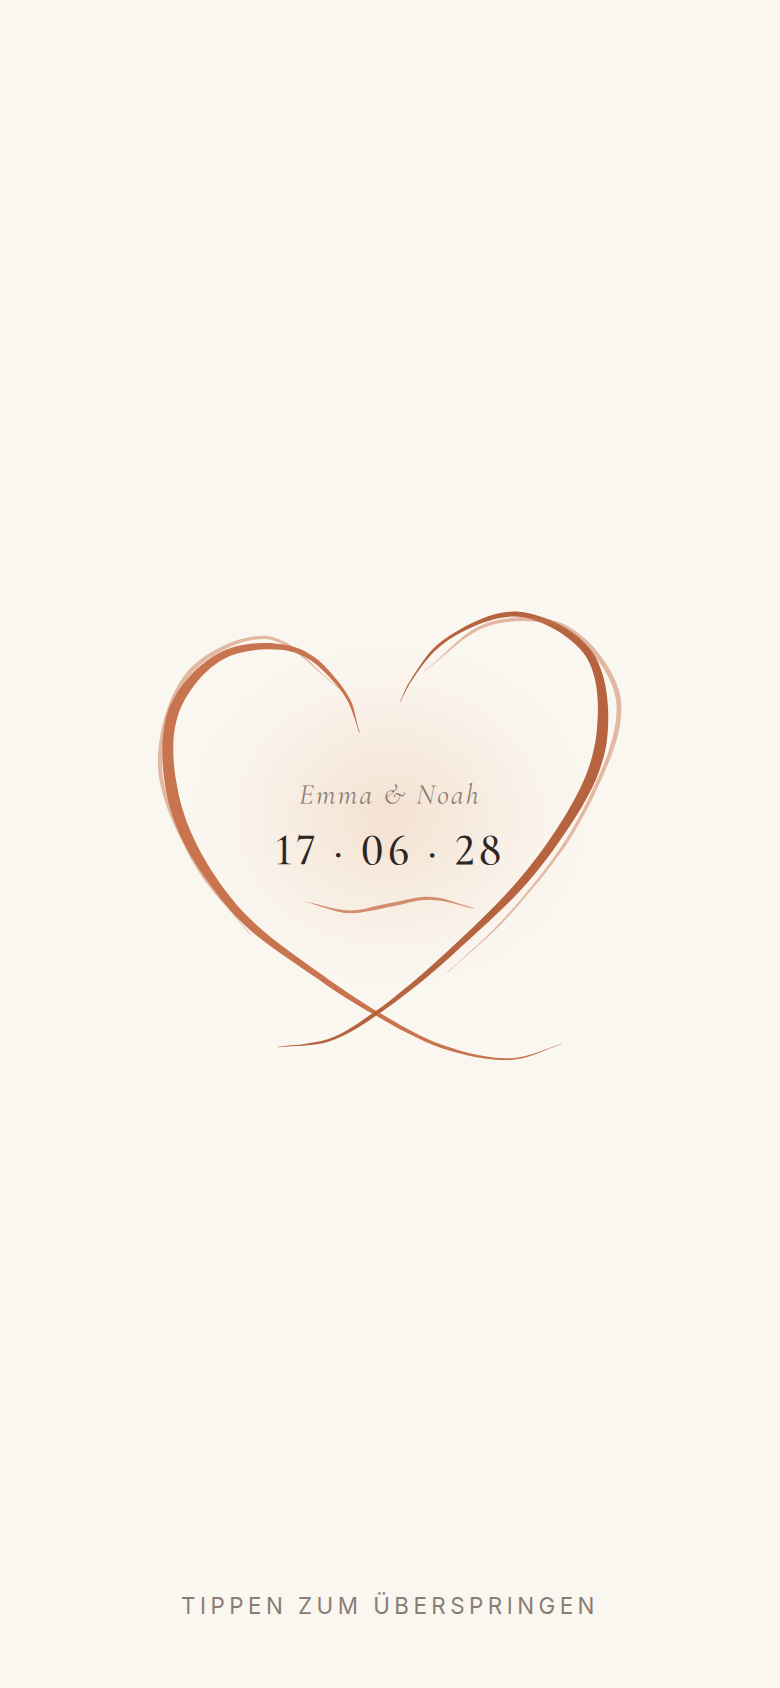
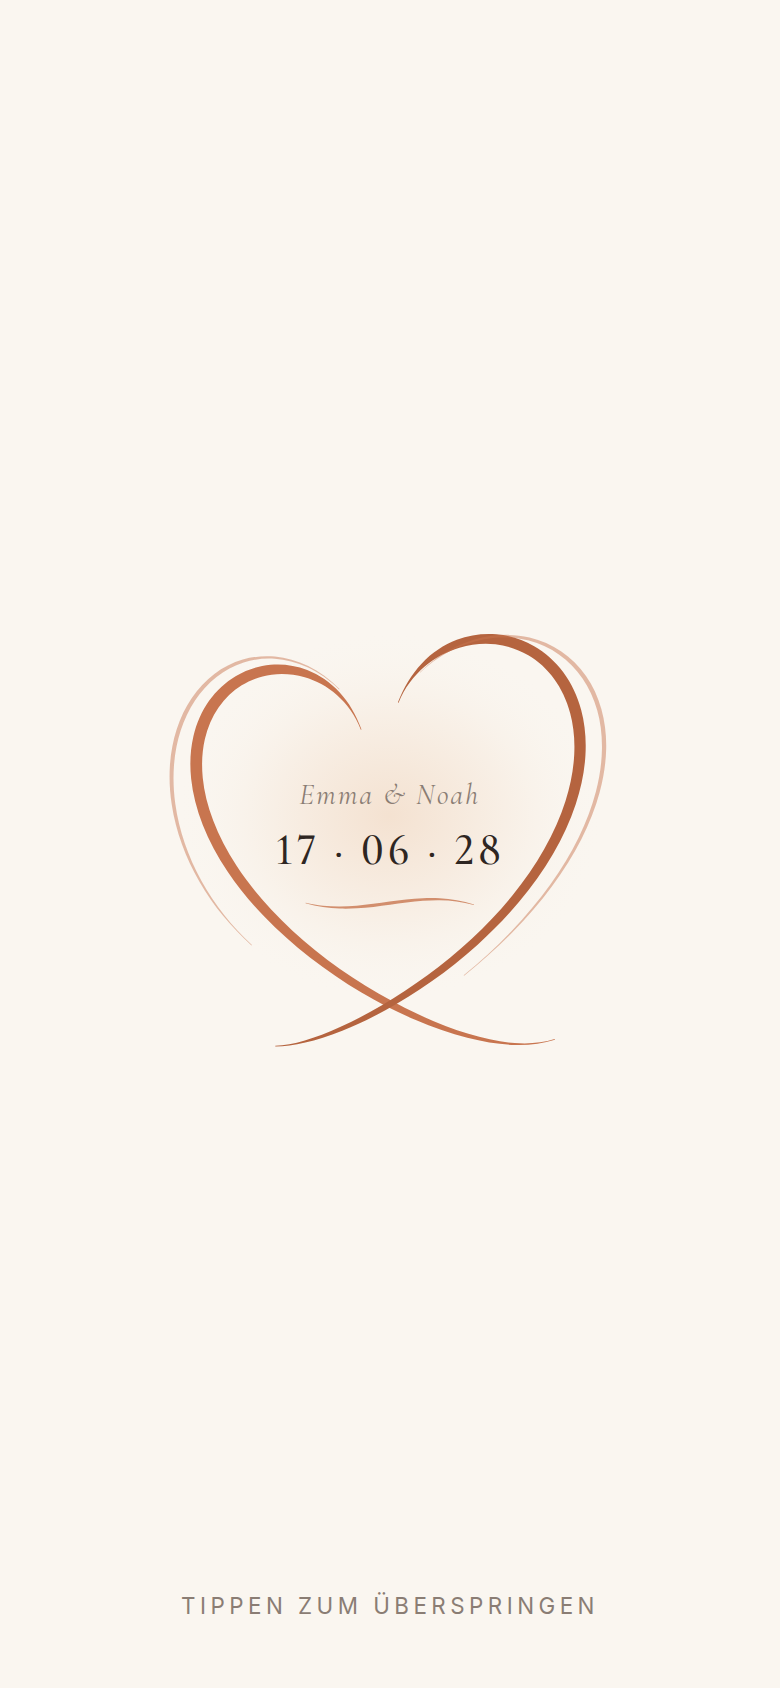
fix: smooth calligraphic heart Bezier curves and prevent mask rotation jitter

Changed region(s): [[0.1846, 0.3389, 0.8, 0.6161], [0.6154, 0.6161, 0.6462, 0.6469]]

diff --git a/src/components/heartPaths.ts b/src/components/heartPaths.ts
@@ -1,4 +1,4 @@
-// Hand-lettered calligraphic heart strokes (centerline for SVG mask + variable-width nib ribbon)
+// Hand-lettered calligraphic heart strokes (C-infinity smooth Bernstein curves + variable-width nib ribbons)
 export interface CalligraphicStroke {
   id: string
   center: string
@@ -11,48 +11,48 @@ export interface CalligraphicStroke {
 
 export const HEART_STROKES: readonly CalligraphicStroke[] = [
   {
-    id: 'left-lobe',
-    center: 'M 172 104 C 169.3 96.7, 168.7 89.1, 164 82 C 158 72.9, 147.4 60.2, 136 56 C 123.7 51.5, 104.3 52.1, 92 58 C 79.5 64, 67 78, 62 92 C 56.3 107.9, 58.6 131.3, 64 150 C 69.8 170.1, 83.8 191.5, 98 208 C 111.9 224.1, 132.7 237, 148 248 C 160.2 256.8, 170 263.1, 182 270 C 194.6 277.2, 208.3 285.5, 222 290 C 235 294.3, 249.7 297.7, 262 297 C 272.8 296.4, 282 291, 292 288',
-    ribbon: 'M 172.2 103.9 C 171.6 102.1, 171.1 100.3, 170.6 98.4 C 170.1 96.5, 169.8 94.6, 169.3 92.8 C 168.8 90.9, 168.4 88.9, 167.6 87.1 C 166.9 85.2, 166 83.4, 164.8 81.5 C 163.4 79.1, 161.4 76.5, 159.5 74.1 C 157.5 71.5, 155.3 68.7, 152.9 66.3 C 150.5 63.8, 148 61.3, 145.2 59.4 C 142.5 57.4, 139.7 55.8, 136.5 54.5 C 133.2 53.3, 129.6 52.5, 125.9 51.9 C 122 51.4, 117.9 51.1, 113.9 51.2 C 109.9 51.3, 105.7 51.7, 101.9 52.5 C 98.1 53.3, 94.5 54.4, 91 56 C 87.6 57.6, 84.4 59.7, 81.3 62 C 78.1 64.4, 75 67.2, 72.2 70.2 C 69.4 73.2, 66.7 76.5, 64.5 80 C 62.3 83.5, 60.4 87, 59 90.9 C 57.5 95.2, 56.6 100, 56 104.8 C 55.4 109.7, 55.3 115, 55.5 120.1 C 55.7 125.3, 56.4 130.7, 57.2 135.9 C 58.1 141, 59.1 145.9, 60.7 151 C 62.3 156.2, 64.4 161.5, 66.8 166.6 C 69.2 171.8, 72.2 176.9, 75.3 181.9 C 78.4 186.9, 81.9 191.7, 85.4 196.4 C 88.8 201, 92.3 205.5, 96.1 209.6 C 99.9 213.8, 103.8 217.6, 107.9 221.3 C 112.1 224.9, 116.7 228.3, 121.2 231.6 C 125.6 234.8, 130.2 237.9, 134.6 240.9 C 138.8 243.8, 143.2 246.8, 147 249.4 C 150.2 251.6, 152.9 253.6, 155.8 255.6 C 158.6 257.5, 161.4 259.2, 164.2 261 C 167 262.7, 169.8 264.4, 172.6 266.1 C 175.5 267.8, 178.4 269.4, 181.4 271.1 C 184.5 272.9, 187.8 274.8, 191 276.6 C 194.3 278.4, 197.7 280.3, 201.1 282 C 204.5 283.7, 207.9 285.4, 211.4 286.9 C 214.8 288.3, 218.3 289.7, 221.7 290.9 C 225.1 292, 228.4 292.9, 231.8 293.8 C 235.2 294.7, 238.7 295.5, 242.1 296.1 C 245.5 296.7, 249 297.1, 252.3 297.4 C 255.6 297.6, 259 297.7, 262 297.5 C 264.8 297.3, 267.4 296.8, 269.9 296.2 C 272.5 295.5, 275 294.6, 277.4 293.7 C 279.9 292.8, 282.2 291.7, 284.7 290.8 C 287.1 289.8, 289.6 289, 292 288.1 L 292 287.9 C 289.5 288.7, 287 289.5, 284.5 290.4 C 282.1 291.3, 279.7 292.3, 277.2 293.1 C 274.7 293.9, 272.3 294.7, 269.7 295.3 C 267.2 295.9, 264.7 296.3, 262 296.5 C 259 296.7, 255.7 296.5, 252.4 296.3 C 249.1 296, 245.7 295.4, 242.4 294.7 C 239 294, 235.6 293.1, 232.2 292.2 C 228.9 291.3, 225.6 290.3, 222.3 289.1 C 218.9 288, 215.5 286.6, 212.1 285.1 C 208.8 283.6, 205.4 281.8, 202.1 280 C 198.8 278.3, 195.5 276.3, 192.3 274.5 C 189 272.6, 185.8 270.7, 182.6 268.9 C 179.7 267.1, 176.9 265.5, 174.1 263.7 C 171.3 262, 168.6 260.3, 165.9 258.4 C 163.2 256.6, 160.5 254.7, 157.7 252.8 C 154.9 250.8, 152.2 248.8, 149 246.6 C 145.3 243.9, 140.9 240.8, 136.7 237.8 C 132.5 234.7, 128 231.5, 123.7 228.2 C 119.4 224.8, 115.1 221.4, 111.1 217.7 C 107.2 214.1, 103.4 210.4, 99.9 206.4 C 96.3 202.3, 92.9 197.8, 89.6 193.3 C 86.4 188.6, 83.2 183.8, 80.4 178.8 C 77.6 173.9, 75 168.9, 72.8 163.8 C 70.6 159, 68.8 154, 67.3 149 C 65.9 144.3, 64.8 139.6, 64 134.7 C 63.1 129.8, 62.4 124.7, 62.1 119.8 C 61.9 115, 61.8 110, 62.3 105.5 C 62.8 101.2, 63.7 96.9, 65 93.1 C 66.2 89.5, 67.8 86.4, 69.6 83.2 C 71.5 79.9, 73.8 76.7, 76.2 73.8 C 78.7 70.9, 81.4 68.1, 84.2 65.7 C 87 63.5, 89.9 61.5, 93 60 C 96.1 58.5, 99.4 57.5, 102.8 56.7 C 106.4 55.8, 110.3 55.2, 114.1 55 C 117.9 54.8, 121.8 54.8, 125.5 55.2 C 128.9 55.6, 132.4 56.3, 135.5 57.5 C 138.4 58.5, 140.9 60, 143.5 61.7 C 146.2 63.5, 148.7 65.8, 151.1 68.1 C 153.5 70.3, 155.8 72.9, 157.9 75.4 C 159.8 77.7, 161.8 80.3, 163.2 82.5 C 164.4 84.4, 165.3 85.9, 166.1 87.7 C 166.9 89.5, 167.6 91.3, 168.2 93.1 C 168.9 94.9, 169.4 96.7, 170 98.5 C 170.6 100.4, 171.2 102.2, 171.8 104.1 Z',
-    maskWidth: 10,
-    delay: 0.05,
-    duration: 1.15,
-    variant: 'primary',
+    "id": "left-lobe",
+    "center": "M 173 102 C 169.83 93.33, 165.03 86.14, 159.34 80.57 C 153.64 75, 147.05 71.06, 140.2 68.72 C 133.36 66.39, 126.26 65.66, 119.46 66.41 C 112.65 67.16, 106.14 69.39, 100.35 72.88 C 94.56 76.37, 89.49 81.12, 85.48 86.86 C 81.46 92.61, 78.49 99.34, 76.77 106.77 C 75.06 114.21, 74.59 122.34, 75.46 130.87 C 76.33 139.4, 78.54 148.33, 82.05 157.38 C 85.57 166.42, 90.39 175.58, 96.37 184.61 C 102.35 193.63, 109.5 202.51, 117.57 211.02 C 125.64 219.53, 134.63 227.67, 144.21 235.25 C 153.79 242.83, 163.97 249.85, 174.37 256.14 C 184.76 262.43, 195.38 267.99, 205.83 272.66 C 216.28 277.33, 226.57 281.11, 236.37 283.85 C 246.16 286.58, 255.47 288.27, 264.09 288.71 C 272.72 289.14, 280.67 288.33, 288 286",
+    "ribbon": "M 173.21 101.92 C 170.03 93.23, 165.65 85.75, 160.12 79.77 C 154.6 73.78, 148 69.3, 140.95 66.54 C 133.89 63.78, 126.38 62.77, 119.13 63.45 C 111.88 64.13, 104.89 66.42, 98.66 70.08 C 92.43 73.75, 86.97 78.79, 82.66 84.89 C 78.35 91, 75.18 98.15, 73.36 105.99 C 71.55 113.83, 71.08 122.35, 72.01 131.22 C 72.94 140.09, 75.27 149.31, 78.93 158.59 C 82.59 167.86, 87.58 177.2, 93.74 186.35 C 99.89 195.5, 107.22 204.46, 115.45 213.02 C 123.69 221.58, 132.84 229.74, 142.58 237.32 C 152.31 244.89, 162.63 251.88, 173.17 258.12 C 183.7 264.37, 194.47 269.82, 205.07 274.35 C 215.68 278.88, 226.11 282.48, 236.04 285.02 C 245.96 287.56, 255.37 289.04, 264.07 289.28 C 272.76 289.51, 280.7 288.55, 288.07 286.21 L 287.93 285.79 C 280.63 288.11, 272.69 288.77, 264.12 288.14 C 255.56 287.5, 246.36 285.6, 236.69 282.67 C 227.02 279.74, 216.89 275.78, 206.59 270.96 C 196.29 266.15, 185.83 260.49, 175.57 254.16 C 165.3 247.83, 155.27 240.78, 145.84 233.19 C 136.41 225.6, 127.59 217.47, 119.69 209.01 C 111.79 200.55, 104.81 191.75, 99 182.86 C 93.19 173.97, 88.54 164.98, 85.17 156.16 C 81.8 147.35, 79.71 138.71, 78.9 130.52 C 78.1 122.33, 78.56 114.59, 80.18 107.56 C 81.8 100.54, 84.58 94.22, 88.3 88.84 C 92.02 83.45, 96.68 79, 102.04 75.68 C 107.39 72.37, 113.42 70.19, 119.78 69.37 C 126.14 68.55, 132.83 69, 139.46 70.9 C 146.09 72.81, 152.68 76.23, 158.55 81.38 C 164.42 86.53, 169.63 93.44, 172.79 102.08 Z",
+    "maskWidth": 10,
+    "delay": 0.05,
+    "duration": 1.15,
+    "variant": "primary"
   },
   {
-    id: 'right-lobe',
-    center: 'M 196 86 C 198 82, 199.1 78.5, 202 74 C 206.5 67.1, 212.9 56.4, 222 50 C 233.1 42.2, 251.8 32.8, 266 34 C 280.5 35.2, 299.8 45.5, 308 58 C 316.8 71.5, 317.6 95.3, 314 114 C 309.9 135.2, 294.3 158.3, 280 178 C 265.2 198.4, 243.5 217.8, 226 234 C 211 247.8, 195.4 260.8, 182 270 C 171.9 276.9, 163.8 282.7, 154 286 C 144.5 289.2, 134 288.7, 124 290',
-    ribbon: 'M 196.1 86.1 C 196.6 85.1, 197.1 84.1, 197.5 83.1 C 198 82.2, 198.4 81.2, 198.9 80.3 C 199.4 79.3, 199.9 78.4, 200.4 77.4 C 201 76.3, 201.6 75.4, 202.3 74.2 C 203.4 72.6, 204.8 70.4, 206.1 68.5 C 207.6 66.5, 209.1 64.3, 210.8 62.2 C 212.5 60.1, 214.3 58, 216.3 56 C 218.2 54.1, 220.1 52.5, 222.5 50.7 C 225.3 48.7, 228.7 46.7, 232 44.9 C 235.6 43, 239.4 41.2, 243.3 39.7 C 247.1 38.3, 251.1 37, 255 36.3 C 258.6 35.6, 262.2 35.2, 265.9 35.5 C 269.6 35.8, 273.3 36.8, 277 38.1 C 280.8 39.4, 284.8 41.3, 288.4 43.5 C 292 45.6, 295.6 48.2, 298.6 50.9 C 301.4 53.5, 304 56.1, 306 59.3 C 308.1 62.6, 309.6 66.5, 310.7 70.5 C 311.9 74.8, 312.5 79.6, 312.8 84.3 C 313.1 89.1, 313 94.2, 312.6 99.1 C 312.3 103.9, 311.8 108.5, 310.7 113.4 C 309.6 118.5, 308 123.8, 306 129 C 303.9 134.4, 301.1 139.8, 298.2 145.1 C 295.3 150.5, 291.9 155.9, 288.5 161.2 C 285.1 166.4, 281.6 171.5, 277.9 176.5 C 274.1 181.6, 270.1 186.6, 265.9 191.5 C 261.7 196.4, 257.1 201.3, 252.5 206.1 C 247.9 210.8, 243.1 215.4, 238.5 219.9 C 233.9 224.3, 229.2 228.7, 224.8 232.7 C 220.9 236.3, 217.3 239.6, 213.6 242.9 C 209.9 246.2, 206.2 249.5, 202.5 252.6 C 198.8 255.6, 195.2 258.6, 191.6 261.4 C 188.2 264.1, 184.5 266.8, 181.3 269 C 178.7 270.9, 176.5 272.4, 174.1 274 C 171.9 275.6, 169.7 277.1, 167.4 278.5 C 165.2 279.9, 163 281.2, 160.8 282.3 C 158.5 283.5, 156.1 284.5, 153.8 285.3 C 151.4 286.1, 149 286.7, 146.6 287.1 C 144.1 287.6, 141.6 287.9, 139.1 288.3 C 136.6 288.6, 134.1 288.8, 131.5 289 C 129 289.3, 126.5 289.6, 124 289.9 L 124 290.1 C 126.5 289.9, 129.1 289.7, 131.6 289.5 C 134.1 289.3, 136.7 289.3, 139.2 289.2 C 141.8 289, 144.3 288.9, 146.8 288.4 C 149.3 288, 151.8 287.5, 154.2 286.7 C 156.7 285.9, 159.1 284.9, 161.5 283.8 C 163.8 282.7, 166.1 281.5, 168.4 280.2 C 170.8 278.9, 173.1 277.4, 175.4 275.9 C 177.8 274.3, 180 272.8, 182.7 271 C 185.9 268.8, 189.7 266.1, 193.2 263.5 C 196.9 260.7, 200.6 257.8, 204.3 254.9 C 208.1 251.8, 212 248.7, 215.8 245.4 C 219.6 242.1, 223.2 238.9, 227.2 235.3 C 231.6 231.3, 236.4 227, 241 222.7 C 245.8 218.3, 250.8 213.8, 255.6 209.1 C 260.3 204.5, 265.2 199.7, 269.6 194.7 C 274 189.8, 278.2 184.7, 282.1 179.5 C 286 174.5, 289.5 169.4, 293 164.2 C 296.6 158.9, 300.2 153.5, 303.4 148.1 C 306.5 142.6, 309.6 137.1, 312 131.4 C 314.2 125.9, 316.1 120.2, 317.3 114.6 C 318.4 109.5, 318.8 104.5, 319 99.4 C 319.2 94.3, 319.1 88.9, 318.5 83.8 C 318 78.8, 317.1 73.7, 315.6 69.1 C 314.2 64.7, 312.4 60.3, 310 56.7 C 307.7 53.2, 304.7 50.2, 301.5 47.4 C 298.2 44.6, 294.2 42.2, 290.3 40.1 C 286.4 38, 282.2 36.2, 278 35 C 274.1 33.7, 270.1 32.7, 266.1 32.5 C 262.2 32.3, 258.3 32.7, 254.4 33.5 C 250.4 34.3, 246.3 35.9, 242.4 37.5 C 238.5 39.1, 234.6 41.2, 231.1 43.2 C 227.7 45.1, 224.3 47.2, 221.5 49.3 C 219.1 51.1, 217.1 52.9, 215.1 54.9 C 213.1 56.9, 211.4 59.2, 209.8 61.4 C 208.2 63.6, 206.7 65.9, 205.3 68 C 204 70, 202.7 72.1, 201.7 73.8 C 200.9 75, 200.3 76, 199.8 77 C 199.3 78.1, 198.8 79.1, 198.4 80.1 C 198 81, 197.6 82, 197.2 83 C 196.8 84, 196.3 85, 195.9 85.9 Z',
-    maskWidth: 10,
-    delay: 0.45,
-    duration: 1.2,
-    variant: 'primaryDeep',
+    "id": "right-lobe",
+    "center": "M 195 86 C 198.5 77, 203.71 69.47, 209.87 63.6 C 216.04 57.74, 223.16 53.53, 230.57 51 C 237.97 48.47, 245.66 47.63, 253.05 48.36 C 260.44 49.09, 267.54 51.4, 273.88 55.07 C 280.23 58.74, 285.82 63.77, 290.32 69.89 C 294.83 76.01, 298.25 83.21, 300.38 91.17 C 302.52 99.12, 303.37 107.84, 302.87 116.99 C 302.37 126.13, 300.53 135.7, 297.39 145.38 C 294.26 155.05, 289.85 164.83, 284.34 174.42 C 278.83 184.02, 272.22 193.42, 264.81 202.41 C 257.39 211.39, 249.18 219.94, 240.52 227.87 C 231.86 235.81, 222.76 243.13, 213.62 249.7 C 204.49 256.28, 195.31 262.1, 186.48 267.11 C 177.64 272.12, 169.16 276.31, 161.29 279.66 C 153.42 283.01, 146.19 285.52, 139.66 287.23 C 133.14 288.93, 127.33 289.83, 122 290",
+    "ribbon": "M 195.21 86.08 C 198.7 77.11, 204.38 69.92, 210.73 64.5 C 217.08 59.09, 224.18 55.43, 231.36 53.31 C 238.53 51.19, 245.8 50.52, 252.76 51.32 C 259.71 52.12, 266.34 54.37, 272.26 57.87 C 278.18 61.37, 283.39 66.12, 287.61 71.89 C 291.83 77.66, 295.06 84.47, 297.1 92.05 C 299.14 99.62, 299.99 107.98, 299.54 116.81 C 299.1 125.63, 297.36 134.93, 294.36 144.39 C 291.36 153.85, 287.1 163.46, 281.74 172.93 C 276.39 182.4, 269.95 191.73, 262.69 200.66 C 255.44 209.59, 247.37 218.12, 238.85 226.06 C 230.34 234, 221.38 241.34, 212.36 247.95 C 203.35 254.56, 194.29 260.43, 185.59 265.55 C 176.89 270.66, 168.55 275, 160.81 278.53 C 153.08 282.06, 145.96 284.77, 139.52 286.66 C 133.08 288.56, 127.31 289.61, 121.99 289.78 L 122.01 290.22 C 127.36 290.06, 133.2 289.31, 139.81 287.79 C 146.42 286.27, 153.77 283.96, 161.77 280.78 C 169.77 277.61, 178.4 273.57, 187.36 268.67 C 196.33 263.77, 205.62 257.99, 214.88 251.45 C 224.15 244.92, 233.38 237.62, 242.18 229.69 C 250.98 221.75, 259.35 213.18, 266.92 204.15 C 274.49 195.12, 281.26 185.63, 286.93 175.91 C 292.6 166.19, 297.17 156.25, 300.43 146.36 C 303.7 136.47, 305.65 126.63, 306.2 117.17 C 306.75 107.71, 305.9 98.62, 303.67 90.29 C 301.44 81.95, 297.83 74.35, 293.04 67.89 C 288.25 61.43, 282.27 56.11, 275.5 52.27 C 268.73 48.42, 261.17 46.06, 253.34 45.4 C 245.52 44.73, 237.41 45.76, 229.78 48.69 C 222.14 51.62, 215.01 56.39, 209.02 62.71 C 203.04 69.03, 198.31 76.89, 194.79 85.92 Z",
+    "maskWidth": 10,
+    "delay": 0.45,
+    "duration": 1.2,
+    "variant": "primaryDeep"
   },
   {
-    id: 'left-echo',
-    center: 'M 160 78 C 146 68, 132.8 49.6, 118 48 C 103.4 46.5, 82.6 56.4, 72 68 C 60.7 80.4, 53.9 103.7, 54 122 C 54.1 141, 64.7 162.7, 74 180 C 82.9 196.5, 96.7 209.3, 108 224',
-    ribbon: 'M 160.1 77.9 C 156.7 75, 153.2 72.2, 149.8 69.1 C 146.4 66, 143.1 62.4, 139.7 59.4 C 136.3 56.5, 133 53.3, 129.3 51.2 C 125.7 49.3, 122 47.6, 118.1 47.1 C 114.2 46.5, 110 47.1, 105.9 47.9 C 101.7 48.7, 97.2 50.2, 93.1 52 C 88.9 53.9, 84.6 56.2, 80.9 58.7 C 77.3 61.2, 74 63.9, 71 67.1 C 68 70.5, 65.5 74.4, 63.3 78.5 C 60.9 82.8, 59.1 87.6, 57.5 92.4 C 56 97.2, 54.8 102.4, 54 107.4 C 53.2 112.3, 52.7 117.1, 52.8 122 C 52.9 127, 53.6 132, 54.8 136.9 C 55.9 142, 57.7 147, 59.6 152 C 61.5 157, 63.9 161.9, 66.2 166.7 C 68.5 171.3, 70.8 176, 73.3 180.4 C 75.7 184.5, 78.2 188.4, 80.9 192.2 C 83.7 195.9, 86.7 199.4, 89.7 203 C 92.7 206.5, 95.9 209.9, 98.9 213.4 C 102 217, 104.9 220.6, 107.8 224.1 L 108.2 223.9 C 105.2 220.3, 102.3 216.7, 99.4 213.1 C 96.4 209.5, 93.3 206, 90.5 202.4 C 87.6 198.8, 84.6 195.2, 82 191.4 C 79.4 187.6, 77 183.8, 74.7 179.6 C 72.2 175.3, 69.9 170.6, 67.7 165.9 C 65.5 161.2, 63.2 156.2, 61.4 151.3 C 59.7 146.4, 58 141.4, 57 136.4 C 55.9 131.6, 55.3 126.8, 55.2 122 C 55.1 117.2, 55.6 112.5, 56.4 107.8 C 57.2 102.9, 58.4 97.9, 59.9 93.2 C 61.4 88.5, 63.3 83.8, 65.5 79.7 C 67.7 75.8, 70.1 72.1, 73 68.9 C 75.7 65.8, 78.9 63.2, 82.3 60.8 C 85.9 58.3, 90 55.9, 94 54.1 C 98 52.3, 102.3 50.7, 106.4 49.8 C 110.2 49, 114.2 48.5, 117.9 48.9 C 121.5 49.4, 125 50.9, 128.4 52.6 C 132.1 54.6, 135.5 57.5, 138.9 60.2 C 142.5 63.1, 145.9 66.5, 149.4 69.5 C 152.9 72.5, 156.4 75.3, 159.9 78.1 Z',
-    maskWidth: 6,
-    delay: 0.85,
-    duration: 0.9,
-    variant: 'echo',
+    "id": "left-echo",
+    "center": "M 160 78 C 154.17 72.17, 147.83 67.73, 141.34 64.63 C 134.85 61.53, 128.21 59.77, 121.72 59.26 C 115.23 58.74, 108.89 59.46, 102.94 61.27 C 96.99 63.09, 91.43 66, 86.45 69.82 C 81.48 73.64, 77.08 78.38, 73.41 83.84 C 69.73 89.29, 66.78 95.46, 64.63 102.13 C 62.47 108.79, 61.12 115.96, 60.61 123.4 C 60.09 130.84, 60.41 138.55, 61.55 146.33 C 62.68 154.1, 64.63 161.93, 67.33 169.62 C 70.02 177.3, 73.46 184.83, 77.53 192.03 C 81.59 199.23, 86.28 206.09, 91.43 212.47 C 96.57 218.84, 102.17 224.72, 108 230",
+    "ribbon": "M 160.14 77.86 C 154.31 72, 148.01 67.45, 141.52 64.26 C 135.02 61.07, 128.34 59.21, 121.77 58.6 C 115.21 57.99, 108.75 58.64, 102.68 60.42 C 96.6 62.2, 90.9 65.1, 85.79 68.96 C 80.69 72.82, 76.17 77.62, 72.41 83.16 C 68.64 88.7, 65.62 94.97, 63.44 101.74 C 61.25 108.51, 59.9 115.78, 59.4 123.31 C 58.91 130.85, 59.28 138.65, 60.48 146.49 C 61.67 154.32, 63.7 162.2, 66.49 169.91 C 69.27 177.62, 72.8 185.16, 76.96 192.35 C 81.11 199.54, 85.89 206.38, 91.11 212.72 C 96.33 219.06, 102.01 224.88, 107.87 230.15 L 108.13 229.85 C 102.32 224.57, 96.81 218.62, 91.74 212.21 C 86.68 205.8, 82.07 198.91, 78.1 191.71 C 74.13 184.5, 70.78 176.98, 68.17 169.32 C 65.56 161.67, 63.69 153.88, 62.62 146.17 C 61.55 138.46, 61.27 130.83, 61.81 123.48 C 62.35 116.13, 63.7 109.07, 65.81 102.51 C 67.93 95.95, 70.83 89.88, 74.41 84.51 C 77.99 79.14, 82.27 74.47, 87.11 70.68 C 91.96 66.89, 97.37 63.98, 103.2 62.13 C 109.02 60.28, 115.25 59.48, 121.67 59.91 C 128.09 60.34, 134.68 61.99, 141.16 65 C 147.64 68, 154.03 72.34, 159.86 78.14 Z",
+    "maskWidth": 6,
+    "delay": 0.85,
+    "duration": 0.9,
+    "variant": "echo"
   },
   {
-    id: 'right-echo',
-    center: 'M 210 68 C 222.7 58.7, 233.9 44.3, 248 40 C 261.9 35.8, 281.4 35.3, 294 42 C 307.4 49.1, 322.2 67.5, 325 84 C 328.3 103.3, 314.6 130.9, 304 152 C 293.1 173.6, 274.7 195.4, 260 212 C 248 225.6, 236 234.7, 224 246',
-    ribbon: 'M 210.1 68.1 C 213.2 65.6, 216.4 63.1, 219.5 60.5 C 222.6 57.9, 225.7 55.1, 228.8 52.5 C 232 50.1, 235.1 47.6, 238.4 45.6 C 241.6 43.7, 244.8 42.1, 248.3 41 C 251.8 39.8, 255.6 39.1, 259.4 38.6 C 263.3 38.1, 267.5 37.9, 271.5 38.1 C 275.4 38.2, 279.5 38.7, 283.2 39.6 C 286.7 40.4, 290.1 41.5, 293.3 43.2 C 296.8 45, 300.1 47.6, 303.2 50.3 C 306.4 53.2, 309.6 56.7, 312.3 60.4 C 315.1 64, 317.7 68, 319.6 72.1 C 321.4 76, 322.9 79.9, 323.6 84.2 C 324.3 89, 324 94.3, 323.2 99.5 C 322.4 105.2, 320.5 111.1, 318.6 116.9 C 316.5 122.8, 313.9 128.9, 311.3 134.7 C 308.7 140.5, 306 146.1, 303.1 151.6 C 300.2 157, 297.2 162.4, 293.8 167.6 C 290.4 173, 286.6 178.3, 282.8 183.4 C 279 188.5, 275 193.5, 271.1 198.2 C 267.3 202.9, 263.2 207.6, 259.6 211.6 C 256.5 215.1, 253.7 218.1, 250.7 221.1 C 247.7 224, 244.8 226.8, 241.8 229.6 C 238.8 232.3, 235.8 234.9, 232.9 237.7 C 229.9 240.4, 226.9 243.1, 223.9 245.9 L 224.1 246.1 C 227.1 243.4, 230.1 240.6, 233.1 238 C 236.2 235.3, 239.2 232.8, 242.2 230.1 C 245.3 227.4, 248.4 224.7, 251.3 221.8 C 254.4 218.8, 257.2 215.8, 260.4 212.4 C 264.1 208.3, 268.2 203.6, 272 199 C 276 194.3, 280.2 189.4, 284 184.3 C 288 179.2, 291.9 174, 295.4 168.7 C 298.8 163.4, 301.9 158, 304.9 152.4 C 307.9 146.9, 310.6 141.4, 313.2 135.6 C 315.9 129.8, 318.7 123.7, 320.9 117.7 C 322.9 111.9, 325 105.8, 326 100 C 326.8 94.5, 327.2 88.8, 326.4 83.8 C 325.8 79.1, 324.1 75, 322.2 70.9 C 320.2 66.6, 317.5 62.4, 314.6 58.6 C 311.8 54.9, 308.5 51.2, 305.1 48.2 C 301.8 45.3, 298.3 42.7, 294.7 40.8 C 291.2 39, 287.5 37.8, 283.7 37 C 279.8 36.1, 275.6 35.8, 271.5 35.7 C 267.4 35.6, 263.2 35.9, 259.1 36.5 C 255.2 37.1, 251.3 37.8, 247.7 39 C 244.1 40.3, 240.7 42.1, 237.4 44.1 C 234.1 46.3, 231.1 49, 228.1 51.7 C 225 54.3, 222.2 57.4, 219.1 60.1 C 216.1 62.8, 213 65.3, 209.9 67.9 Z',
-    maskWidth: 6,
-    delay: 1.05,
-    duration: 0.95,
-    variant: 'echo',
+    "id": "right-echo",
+    "center": "M 208 68 C 214.67 61.61, 221.88 56.71, 229.26 53.21 C 236.64 49.71, 244.18 47.63, 251.53 46.84 C 258.89 46.05, 266.07 46.55, 272.77 48.22 C 279.48 49.89, 285.71 52.73, 291.23 56.56 C 296.76 60.39, 301.57 65.23, 305.5 70.89 C 309.42 76.56, 312.44 83.05, 314.44 90.19 C 316.43 97.32, 317.4 105.1, 317.26 113.33 C 317.12 121.56, 315.87 130.25, 313.48 139.19 C 311.09 148.14, 307.57 157.35, 302.94 166.64 C 298.31 175.93, 292.57 185.31, 285.8 194.59 C 279.03 203.87, 271.23 213.06, 262.54 222.01 C 253.86 230.96, 244.28 239.67, 234 248",
+    "ribbon": "M 208.14 68.14 C 214.8 61.79, 222.07 56.99, 229.44 53.59 C 236.81 50.19, 244.32 48.21, 251.61 47.51 C 258.9 46.82, 265.97 47.41, 272.55 49.12 C 279.13 50.84, 285.21 53.68, 290.59 57.48 C 295.97 61.29, 300.65 66.05, 304.46 71.61 C 308.28 77.17, 311.23 83.53, 313.19 90.54 C 315.15 97.54, 316.12 105.19, 316.01 113.31 C 315.9 121.43, 314.71 130.02, 312.39 138.9 C 310.08 147.78, 306.65 156.95, 302.11 166.23 C 297.57 175.5, 291.93 184.88, 285.25 194.19 C 278.57 203.49, 270.86 212.73, 262.24 221.72 C 253.63 230.72, 244.13 239.5, 233.87 247.84 L 234.13 248.16 C 244.42 239.83, 254.08 231.21, 262.84 222.3 C 271.6 213.4, 279.49 204.25, 286.35 194.99 C 293.2 185.73, 299.04 176.36, 303.77 167.06 C 308.49 157.75, 312.11 148.5, 314.57 139.48 C 317.03 130.47, 318.34 121.7, 318.52 113.35 C 318.69 105.01, 317.72 97.1, 315.69 89.84 C 313.66 82.57, 310.56 75.95, 306.53 70.18 C 302.5 64.41, 297.55 59.5, 291.88 55.63 C 286.21 51.77, 279.83 48.95, 273 47.33 C 266.16 45.7, 258.89 45.28, 251.46 46.16 C 244.04 47.05, 236.47 49.24, 229.08 52.83 C 221.7 56.43, 214.53 61.44, 207.86 67.86 Z",
+    "maskWidth": 6,
+    "delay": 1.05,
+    "duration": 0.95,
+    "variant": "echo"
   },
   {
-    id: 'date-swash',
-    center: 'M 140 204 C 148.7 206, 157.5 209.7, 166 210 C 174.1 210.3, 182 207.3, 190 206 C 198 204.7, 205.9 201.7, 214 202 C 222.5 202.3, 231.3 206, 240 208',
-    ribbon: 'M 140 204.1 C 142.1 204.8, 144.3 205.3, 146.4 206 C 148.6 206.7, 150.8 207.5, 152.9 208.1 C 155.1 208.8, 157.2 209.5, 159.4 210 C 161.6 210.4, 163.8 210.8, 166 210.8 C 168.1 210.9, 170.1 210.8, 172.2 210.6 C 174.2 210.3, 176.2 209.9, 178.3 209.6 C 180.3 209.2, 182.3 208.7, 184.3 208.3 C 186.2 207.9, 188.2 207.5, 190.2 207.1 C 192.2 206.7, 194.2 206.3, 196.2 205.9 C 198.2 205.4, 200.2 204.8, 202.2 204.4 C 204.1 203.9, 206.1 203.5, 208.1 203.2 C 210 203, 212 202.8, 214 202.8 C 216 202.9, 218.2 203.2, 220.3 203.5 C 222.5 203.8, 224.6 204.3, 226.8 204.8 C 229 205.3, 231.2 206, 233.4 206.5 C 235.6 207.1, 237.8 207.6, 240 208.1 L 240 207.9 C 237.9 207.2, 235.7 206.7, 233.6 206 C 231.4 205.3, 229.2 204.5, 227.1 203.9 C 224.9 203.2, 222.8 202.5, 220.6 202 C 218.4 201.6, 216.2 201.2, 214 201.2 C 211.9 201.1, 209.9 201.2, 207.8 201.4 C 205.8 201.7, 203.8 202.1, 201.7 202.4 C 199.7 202.8, 197.7 203.3, 195.7 203.7 C 193.8 204.1, 191.8 204.5, 189.8 204.9 C 187.8 205.3, 185.8 205.7, 183.8 206.1 C 181.8 206.6, 179.8 207.2, 177.8 207.6 C 175.9 208.1, 173.9 208.5, 171.9 208.8 C 170 209, 168 209.2, 166 209.2 C 164 209.1, 161.8 208.8, 159.7 208.5 C 157.5 208.2, 155.4 207.7, 153.2 207.2 C 151 206.7, 148.8 206, 146.6 205.5 C 144.4 204.9, 142.2 204.4, 140 203.9 Z',
-    maskWidth: 5,
-    delay: 1.6,
-    duration: 0.65,
-    variant: 'swash',
-  },
+    "id": "date-swash",
+    "center": "M 140 205 C 143.47 205.93, 146.89 206.59, 150.29 207.02 C 153.68 207.45, 157.05 207.65, 160.38 207.69 C 163.72 207.73, 167.04 207.6, 170.34 207.36 C 173.63 207.12, 176.92 206.77, 180.19 206.37 C 183.47 205.97, 186.73 205.51, 190 205.06 C 193.27 204.61, 196.53 204.17, 199.81 203.79 C 203.08 203.4, 206.37 203.09, 209.66 202.89 C 212.96 202.69, 216.28 202.62, 219.62 202.72 C 222.95 202.83, 226.32 203.11, 229.71 203.64 C 233.11 204.17, 236.53 204.93, 240 206",
+    "ribbon": "M 139.95 205.17 C 143.42 206.14, 146.84 206.89, 150.24 207.4 C 153.64 207.91, 157.02 208.19, 160.38 208.3 C 163.74 208.4, 167.07 208.34, 170.39 208.15 C 173.71 207.96, 177.01 207.65, 180.3 207.27 C 183.59 206.9, 186.86 206.45, 190.13 206 C 193.4 205.55, 196.65 205.1, 199.91 204.69 C 203.17 204.28, 206.43 203.92, 209.71 203.68 C 212.99 203.43, 216.28 203.29, 219.6 203.33 C 222.92 203.36, 226.26 203.57, 229.65 204.02 C 233.04 204.47, 236.48 205.14, 239.95 206.17 L 240.05 205.83 C 236.59 204.73, 233.17 203.86, 229.77 203.26 C 226.37 202.65, 222.99 202.29, 219.64 202.11 C 216.28 201.94, 212.94 201.95, 209.62 202.1 C 206.3 202.25, 202.99 202.53, 199.7 202.88 C 196.41 203.24, 193.14 203.67, 189.87 204.12 C 186.6 204.57, 183.34 205.04, 180.08 205.47 C 176.82 205.9, 173.56 206.28, 170.28 206.57 C 167 206.86, 163.71 207.05, 160.39 207.08 C 157.07 207.11, 153.72 206.98, 150.34 206.63 C 146.95 206.28, 143.51 205.73, 140.05 204.83 Z",
+    "maskWidth": 5,
+    "delay": 1.6,
+    "duration": 0.65,
+    "variant": "swash"
+  }
 ]

diff --git a/src/components/HeartIntro.tsx b/src/components/HeartIntro.tsx
@@ -23,21 +23,21 @@ export function HeartIntro({ onDone }: { onDone: () => void }) {
       <m.svg
         className={styles.heart}
         viewBox="0 0 380 340"
+        shapeRendering="geometricPrecision"
         aria-hidden="true"
-        initial={{ scale: 0.97, rotate: -1.5 }}
+        initial={{ scale: 1 }}
         animate={{
-          scale: [0.97, 1, 1, 1.035, 1],
-          rotate: [-1.5, 0, 0, 0.4, 0],
+          scale: [1, 1, 1, 1.028, 1],
         }}
         exit={{
-          scale: 1.18,
+          scale: 1.12,
           opacity: 0,
           filter: 'blur(6px)',
           transition: { duration: 0.75, ease: 'easeInOut' },
         }}
         transition={{
           duration: 3.1,
-          times: [0, 0.55, 0.72, 0.86, 1],
+          times: [0, 0.65, 0.75, 0.88, 1],
           ease: 'easeInOut',
         }}
       >
